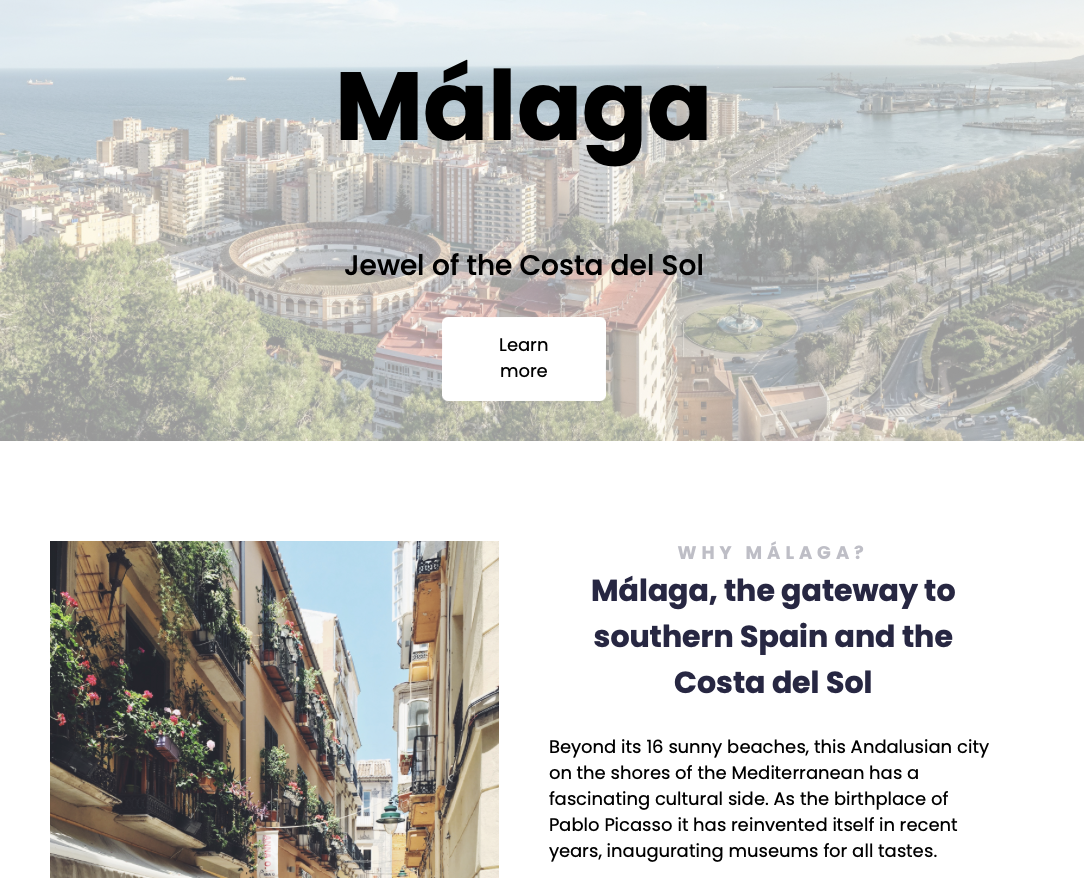
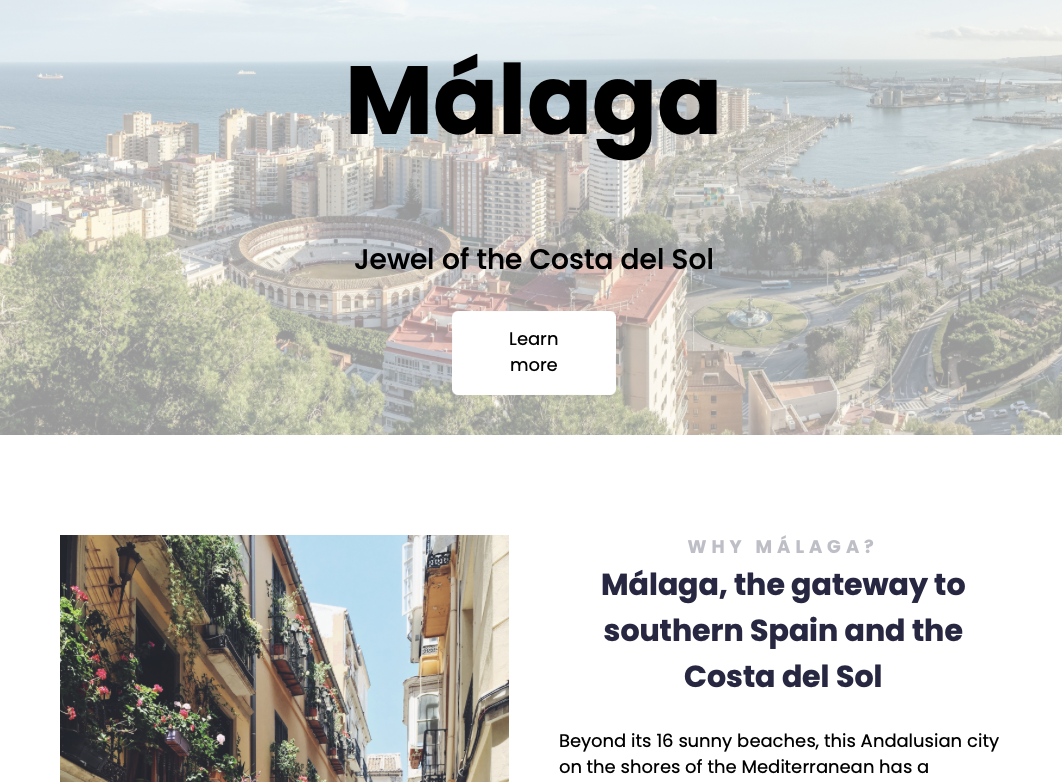
updated project sections and adjusted the h4 margin a little

diff --git a/index.html b/index.html
@@ -84,12 +84,12 @@
           <img class="img-fluid rounded" src="images/malaga.png" alt="Málaga" />
         </div>
         <div class="col-md-6">
-          <h4>Travel Project</h4>
+          <h4>Responsive Travel Project</h4>
           <div class="home-text">
-            Beautiful responsive website about the city of Málaga, Spain. Made
-            with HTML, CSS and Bootstrap. The website features a large hero,
-            stylish footer box, different content sections and google maps as
-            well as instagram embeds.
+            Beautiful mobile friendly website about the city of Málaga, Spain.
+            Made with HTML, CSS and Bootstrap. The website features a large
+            hero, stylish footer box, different content sections, a cards design
+            element and google maps as well as instagram embeds.
           </div>
           <div class="home-applinks">
             <a
@@ -104,43 +104,6 @@
       </div>
 
       <div class="row mt-5">
-        <div class="col-md-6">
-          <h4>Weather App</h4>
-          <div class="home-text">
-            Weather app with API integration, coded with HTML, CSS, Vanilla Java
-            Script and a Bootstrap grid. Features current weather and a 5 day
-            forecast for most cities around the world, as well as the user's
-            current location detection with individual local forecast at the
-            push of a button. Current time, date, revolving weekdays and API
-            weather icons.
-          </div>
-          <div class="home-applinks">
-            <a
-              href="https://vsweather.netlify.app"
-              target="_blank"
-              class="applink"
-              title="weather-app"
-              >Launch Weather App</a
-            >
-          </div>
-        </div>
-        <div class="col-md-6">
-          <img
-            class="img-fluid rounded"
-            src="images/weatherapp.png"
-            alt="weatherapp"
-          />
-        </div>
-      </div>
-
-      <div class="row mt-5">
-        <div class="col-md-6">
-          <img
-            class="img-fluid rounded"
-            src="images/worldclockapp.png"
-            alt="worldclock"
-          />
-        </div>
         <div class="col-md-6">
           <h4>World Clock App</h4>
           <div class="home-text">
@@ -159,17 +122,52 @@
             >
           </div>
         </div>
-        <div class="credits text-center">
-          <small
-            >This website was coded by Victoria Stevenson and is open sourced
-            <a
-              href="https://github.com/victoria-stevenson/portfolio"
-              target="_blank"
-              title="github-portfolio"
-              >on Github</a
-            ></small
-          >
+        <div class="col-md-6">
+          <img
+            class="img-fluid rounded"
+            src="images/worldclockapp.png"
+            alt="worldclock"
+          />
         </div>
+
+        <div class="row mt-5">
+          <div class="col-md-6">
+            <img
+              class="img-fluid rounded"
+              src="images/weather.png"
+              alt="Weather App"
+            />
+          </div>
+          <div class="col-md-6">
+            <h4>React Weather App</h4>
+            <div class="home-text">
+              Weather app with API integration, coded with HTML, CSS, React.js
+              and a Bootstrap grid. Features current weather and a 5 day
+              forecast for most cities around the world. Also current time,
+              date, revolving weekdays and API weather icons.
+            </div>
+            <div class="home-applinks">
+              <a
+                href="https://vsreactweather.netlify.app"
+                target="_blank"
+                class="applink"
+                title="react-weather-project"
+                >Launch Weather App</a
+              >
+            </div>
+          </div>
+        </div>
+      </div>
+      <div class="credits text-center">
+        <small
+          >This website was coded by Victoria Stevenson and is open sourced
+          <a
+            href="https://github.com/victoria-stevenson/portfolio"
+            target="_blank"
+            title="github-portfolio"
+            >on Github</a
+          ></small
+        >
       </div>
     </div>
     <script src="src/index.js"></script>

diff --git a/src/style.css b/src/style.css
@@ -30,7 +30,7 @@ h3 {
   color: grey;
 }
 h4 {
-  margin-bottom: 20px;
+  margin: 10px 0 20px 0;
 }
 
 .index-h3 {
